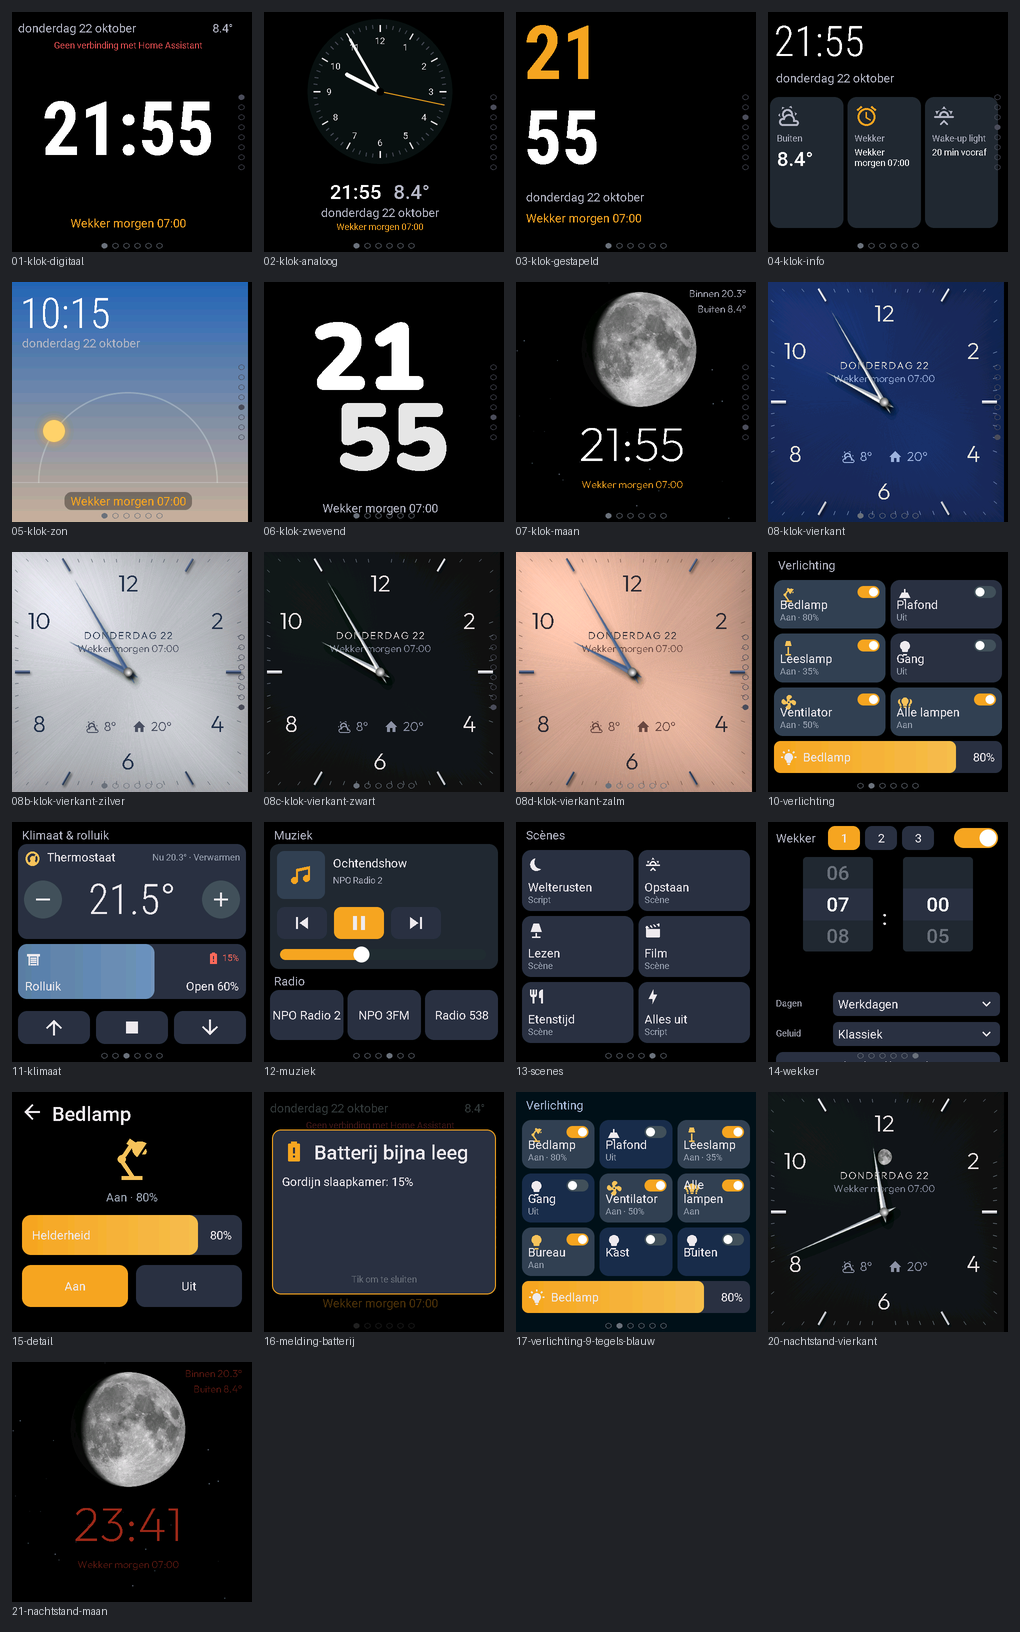
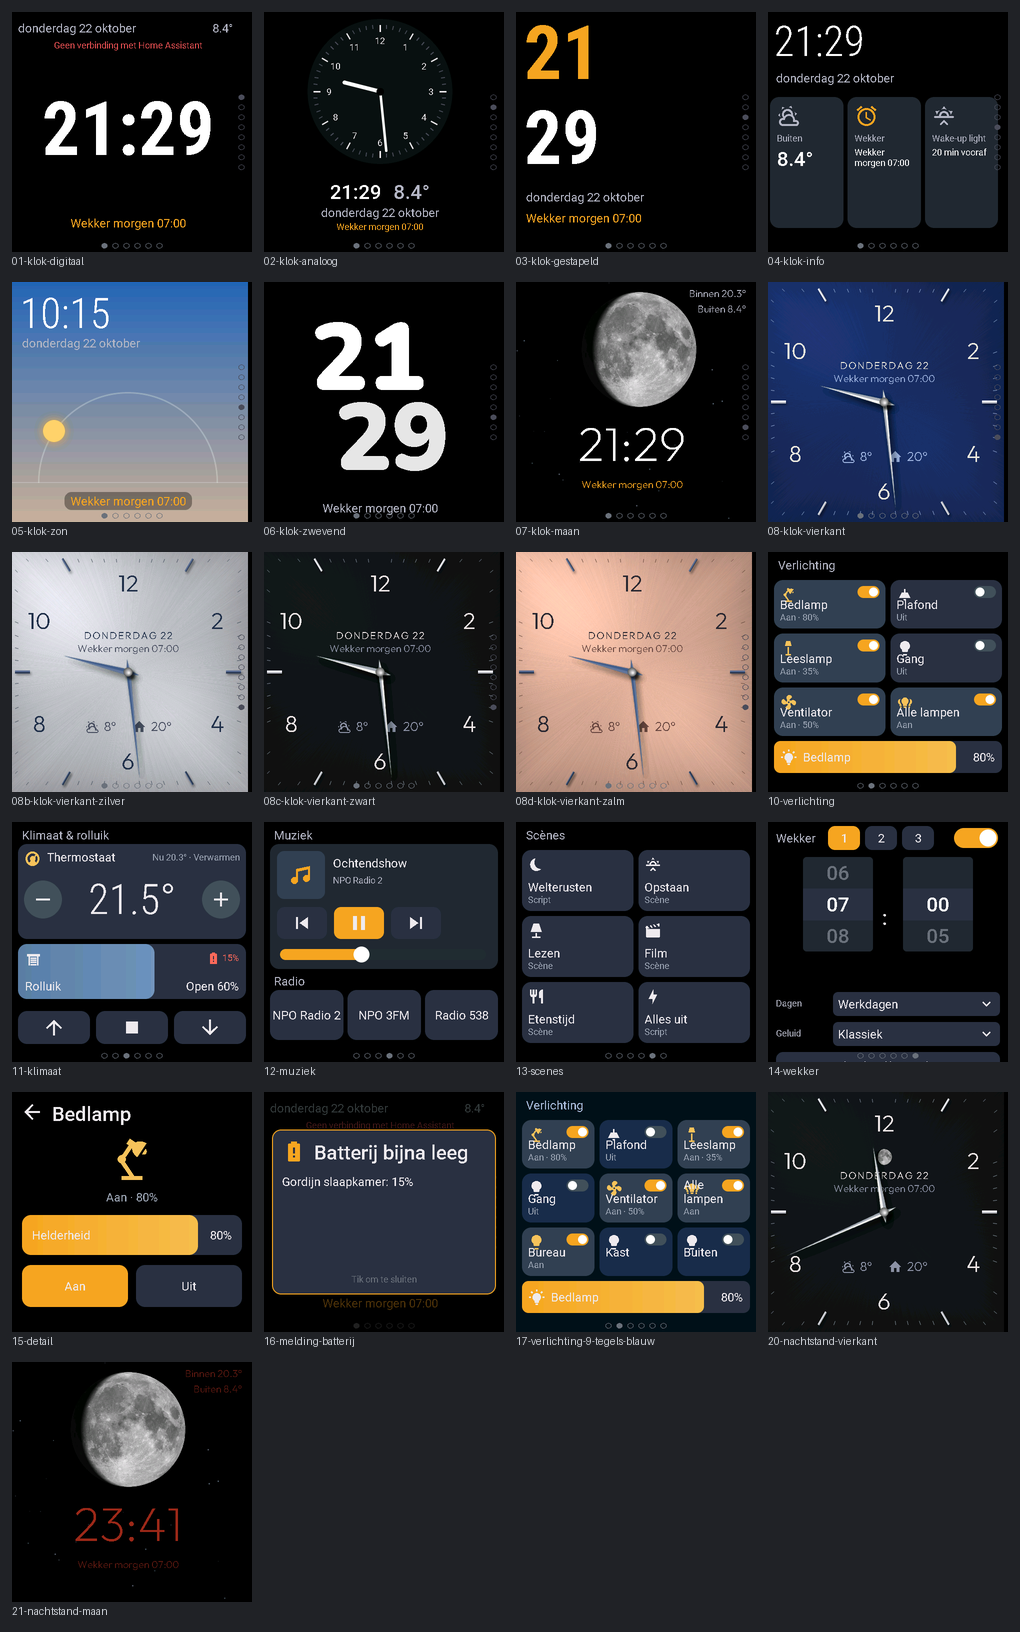
Klok sneller: alleen het zichtbare ontwerp bijwerken, secondewijzer instelbaar, 4" standaard 180°
- scherm_bijwerken (elke seconde) werkte de teksten van alle 8 klokontwerpen
  bij, ook ongewijzigd (lv_label_set_text meet en tekent altijd opnieuw).
  Nu alleen het ontwerp dat in beeld is, alleen als de klokpagina open is,
  en alleen teksten die echt veranderd zijn. Bij wisselen van ontwerp of
  terugkomen op de klok wordt hij meteen bijgewerkt.
- Wijzers van Analoog en Vierkant alleen als dat ontwerp zichtbaar is.
- Nieuwe instelling 'Secondewijzer' (Altijd / Bij aanraken / Uit), standaard
  alleen 20 s na een aanraking: geen elke-seconde-hertekening van de klok.
- 4": draaiing standaard 180°, zoals de Bosun-bootmonitor (paneel op z'n kop
  in de behuizing); installeerbestand en README aangepast. ESPHome draait
  in software (extra kopie per update), dat blijft zo.
- Dashboard en schermafdrukken bijgewerkt.

Claude-Session: https://claude.ai/code/session_01CNMtz6KN9qyPE737qPuzEt

diff --git a/tools/dashboard.py b/tools/dashboard.py
@@ -63,6 +63,7 @@ def maak(friendly, camera):
     uiterlijk = [
         (e("select", "Kleurthema"), None), (e("select", "Accentkleur"), None), (e("select", "Klokontwerp"), None),
         (e("select", "Klokkleur"), None), (e("select", "Wijzerplaat"), None), (e("select", "Nachtklok"), None),
+        (e("select", "Secondewijzer"), None),
     ]
     ontwerpen = [(e("switch", f"Klokontwerp {o}"), o) for o in
                  ("Digitaal", "Analoog", "Gestapeld", "Info", "Zon", "Zwevend", "Maan", "Vierkant")]

diff --git a/README.md b/README.md
@@ -282,9 +282,11 @@ elke build de nieuwste versie op).
 > het bootlog `chip revision: v1.x`? Zet dan in
 > `onderdelen/waveshare-p4-7b.yaml` de optie `engineering_sample: true`.
 
-> **4": beeld op z'n kop?** In de Bosun-behuizing zit het scherm 180° gedraaid.
-> Zet dan in `alarmklok-4inch.yaml` onder `substitutions:` de regel
-> `draaiing: "180"`. De touch draait mee.
+> **4": beeld op z'n kop?** Het beeld staat standaard 180° gedraaid, zoals de
+> Bosun-bootmonitor (in de Bosun-behuizing zit het paneel op z'n kop). Zonder
+> die behuizing zet je in `alarmklok-4inch.yaml` onder `substitutions:` de regel
+> `draaiing: "0"`. De touch draait mee. ESPHome draait het beeld in software;
+> `"0"` is daardoor iets sneller.
 
 > **4B: USB-C onderaan.** Het beeld van de 4B staat standaard een kwartslag
 > gedraaid (`draaiing: "270"` in `alarmklok-4b.yaml`), zodat de USB-C-aansluiting
@@ -457,6 +459,7 @@ Installatie, stap 4).
 | *Kleurthema* | Donker, Zwart, Blauw of Warm: achtergrond van pagina's, kaarten en tegels |
 | *Accentkleur* | Kleur van de accenten op de klok (datum, tweede tijd, ...) |
 | *Klokontwerp Digitaal* … *Vierkant* | Welke ontwerpen meedoen bij omhoog/omlaag swipen (allemaal uit = allemaal mee) |
+| *Secondewijzer* | Op de klok Analoog: Altijd, Bij aanraken (standaard, 20 s na een aanraking) of Uit. Elke seconde de wijzer tekenen kost rekenwerk. |
 | *Swipe-animatie* | Aan: de pagina schuift mee. Uit: de nieuwe pagina staat er meteen, veel sneller op de 4" (daar standaard uit) |
 | *Thermostaat*, *Rolluik*, *Rolluik batterij*, *Mediaspeler*, *Dimlamp*, *Dimlamp naam* | De entiteiten op Klimaat, Muziek en de dimmerkaart (leeg *Dimlamp* = geen dimmerkaart) |
 | *Camera*, *Deurbel*, *Camera verversen* (7" en 4B) | Camera-entiteit, optioneel een deurbel (bij "on" springt de klok naar de camera en gaat het scherm aan, ook 's nachts) en om de hoeveel seconden een nieuw beeld. De klok haalt het beeld bij HA op via `ha_url` (in `instellingen.yaml`); er is geen token nodig. |
